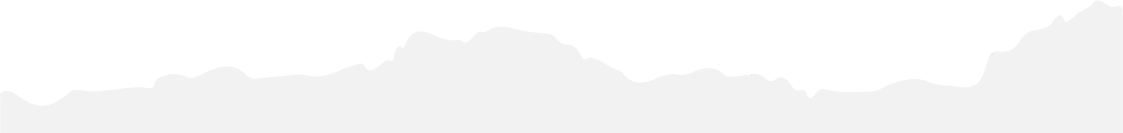
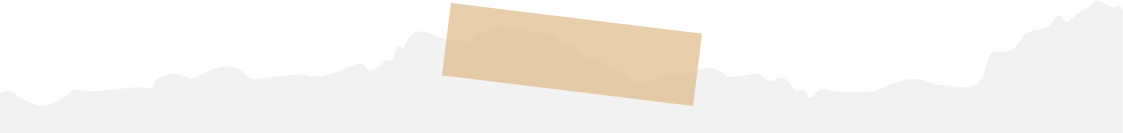
contact fini

Changed region(s): [[0.374, 0.0301, 0.6233, 0.812]]

diff --git a/public/css/contact.css b/public/css/contact.css
@@ -72,8 +72,7 @@ input[type="radio"] {
     color: burlywood;
     height: 1em;
     width: 1em;
-    border: 0.1em solid burlywood;
-    border-radius: 50%;
+    border: 0.15em solid burlywood;
 
     display: grid;
     place-content: center;
@@ -86,7 +85,6 @@ input[type="radio"]::before {
     transform: scale(0);
     background-color: burlywood;
     transition: 120ms transform ease-in-out;
-    border-radius: 50%;
 }
 
 input[type="radio"]:checked::before {
@@ -102,7 +100,7 @@ input[type="radio"]:checked::before {
 input[type="text"] {
     border: none;
     border-bottom: black solid 1px;
-    background-color: #FFFCF1;
+    background-color: #fff;
     font-family: Poppins;
     padding: 2px 5px;
 }
@@ -134,4 +132,24 @@ input[type="text"] {
 
 .submit:hover{
     cursor: pointer;
+}
+
+.topper {
+    background-image: url("../images/quizFondUp.png");
+    background-size: cover;
+    height: 5vh;
+}
+.downer {
+    background-image: url("../images/quizFondDown.png");
+    background-size: cover;
+    height: 7vh;
+}
+
+.container {
+    padding: 0 3vw;
+}
+
+.question , #envoyer {
+    padding: 1vh 3vw;
+    background-color: #f2f2f2;
 }

diff --git a/public/css/quiz.css b/public/css/quiz.css
@@ -62,17 +62,6 @@ p, label {
     align-items: flex-start;
 }
 
-#scotch {
-    height: 5vh;
-    width: 12vw;
-    background-color: rgba(222, 184, 135, 0.7);
-    position: absolute;
-    top: 27vh;
-    right: 18vw;
-    transform: rotate(35deg);
-    z-index: 1;
-}
-
 input {
     appearance: none;
     background-color: #FFFCF1;
@@ -92,7 +81,7 @@ input::before {
     width: 0.65em;
     height: 0.65em;
     transform: scale(0);
-    background-color: burlywood;
+    box-shadow: inset 1em 1em burlywood;
     transition: 120ms transform ease-in-out;
 }
 

diff --git a/public/css/trombi.css b/public/css/trombi.css
@@ -6,3 +6,15 @@
     font-family: Poppins;
     src: url("../font/Poppins-Regular.ttf");
 }
+
+main {
+    display: flex;
+    flex-direction: column;
+    align-items: center;
+}
+
+h1  {
+    margin-top: 6vh;
+    font-family: Marianaxxe;
+    font-size: 4rem;
+}

diff --git a/app/view/contact.view.php b/app/view/contact.view.php
@@ -1,8 +1,10 @@
 <section class="formulaire">
     <h2>Vous voulez qu'on intervienne pour sensibiliser sur le harcèlement de rue ? <br>
         Utilisez notre formulaire ci-dessous ! </h2>
+
     <form name="comment">
-        <div class="statut">
+        <div class="topper"></div>
+        <div class="question">
             <p>Quel est votre statut</p>
             <?php foreach ($statut as $rep) :?>
                 <label class="reponse">
@@ -22,13 +24,13 @@
                 <br>
             </label>
         </div>
-        <div class="commentaire">
+        <div class="question">
             <p>Votre demande :</p>
             <textarea
                     id="comments"
                     class="input-textarea"
                     name="comment"
-                    placeholder="Veuillez taper votre commentaire ... (250 caractères max)"
+                    placeholder="Veuillez taper votre commentaire (250 caractères max)"
                     maxlength="250"
                     wrap="hard"
                     cols="50"
@@ -36,7 +38,7 @@
             ></textarea>
         </div>
 
-        <div class="mail">
+        <div class="question">
             <p>Votre mail : </p>
             <textarea
                     id="comments"
@@ -48,12 +50,10 @@
             ></textarea>
         </div>
         <div id="envoyer">
-            <button type="submit" class="submit" form="comment">Envoyer</button>
+            <a class="submit" form="comment" href="">Envoyer</a>
         </div>
-
+        <div class="downer"></div>
     </form>
-
-
 
 </section>
 

diff --git a/database.trombi.php b/database.trombi.php
@@ -5,42 +5,49 @@ $equipe = [
       'prenom' => 'Gladys',
       'role' => 'Présidente',
       'photo' => 'public/images/PhotoGladys.jpg',
+      'link' => 'ficheGladys.php',
    ],
 
    [
       'prenom' => 'Litéya',
       'role' => 'Community Manager',
       'photo' => "public/images/PhotoLitéya.jpg",
+      'link' => 'ficheLiteya.php',
    ],
 
    [
       'prenom' => 'Sarah',
       'role' => 'Trésorière',
       'photo' => 'public/images/PhotoSarah.jpg',
+      'link' => 'ficheSarah.php',
    ],
 
    [
       'prenom' => 'Linus',
       'role' => 'Développeur',
       'photo' => 'public/images/PhotoLinus.jpeg',
+      'link' => 'ficheLinus.php',
    ],
 
    [
       'prenom' => 'Mariana',
       'role' => 'Graphiste',
       'photo' => 'public/images/PhotoMariana.jpg',
+      'link' => 'ficheMariana.php',
    ],
 
    [
       'prenom' => 'Léa',
       'role' => 'Créatrice de merch',
       'photo' => 'public/PhotosEquipeTrombi/PhotoLéa.jpg',
+      'link' => 'ficheLea.php',
    ],
 
    [
       'prenom' => 'Alexandre',
       'role' => 'Développeur',
       'photo' => 'public/images/PhotoAlexandre.jpg',
+      'link' => 'ficheAlexandre.php',
    ],
 
 ];

diff --git a/databaseboutique.php b/databaseboutique.php
@@ -4,18 +4,18 @@ $boutique = [
   [
   	'nom' => 'SWEAT "LES GONZESSES SONT DE SORTIE"',
     'description' => 'Sweat à capuche floqué avec cordons. 
-    <br>Poche kangourou</br>
-    logo "LES GONZESSES SONT DE SORTIE" sur le devant.
-    <br>Lavable en machine à 40°.</br>',
+                    <br>Poche kangourou</br>
+                    logo "LES GONZESSES SONT DE SORTIE" sur le devant.
+                    <br>Lavable en machine à 40°.</br>',
     'prix' => '30€',
     'image' => "public/images/Sweat.png",
     'taille'=> ' <select name="TailleTShirt"> 
-    <option value="xs">XS</option>
-    <option value="s">S</option>
-    <option value="M">M</option>
-    <option value="L">L</option>
-    <option value="XL">XL</option>
-</select>', 
+                    <option value="xs">XS</option>
+                    <option value="s">S</option>
+                    <option value="M">M</option>
+                    <option value="L">L</option>
+                    <option value="XL">XL</option>
+                </select>',
   ],
 
   [

diff --git a/app/view/trombi.view.php b/app/view/trombi.view.php
@@ -2,20 +2,15 @@
 
 <p>EH CONNARD !, est un collectif féministe qui lutte contre le harcèlement de rue, pour changer les regards et les mentalités, pour que les femmes regagnent l’espace public que ces conn*rds leur ont volé. Notre but : sensibiliser les jeunes sur le sujet, pour éviter qu’ils finissent par agir de la pire manière possible.</p>
 
-<h1>Les gonzesses :</h1>
+<h2>Les gonzesses :</h2>
 
 <main>
-
-   
-  
 <?php foreach ($equipe as $membre) : ?>
-
-    <div class= "membre">
-        <a href="fiche.html">
-        <img src= "<?=$membre['photo']?>" >
-        <p class="prenom"><?= $membre["prenom"] ?> </p>
-        <p class="role"><?= $membre["role"] ?> </p>
-</a>
+    <div class="membre">
+        <a href="<?=$membre['link']?>">
+            <img src= "<?=$membre['photo']?>" >
+            <p class="prenom"><?= $membre["prenom"] ?> </p>
+            <p class="role"><?= $membre["role"] ?> </p>
+        </a>
     </div>
-
 <?php endforeach ?> 

diff --git a/trombi.php b/trombi.php
@@ -1,10 +1,10 @@
 <?php
-$css=null;
+$css="public/css/trombi.css";
 include "database.trombi.php" ;
-$page_title = 'trombinoscope';
+$page_title = 'Trombinoscope';
 
 ob_start();
-include "app/view/trombisae.view.php" ;
+include "app/view/trombi.view.php";
 $content = ob_get_clean() ;
 
 include 'app/view/common/layout.php' ;

diff --git a/page_projet.php b/page_projet.php
@@ -4,7 +4,7 @@ $page_title = 'Projets';
 
 // A la place du code html, mettre le code qui permet de générer la page HTML (à partir du ob_start()).
 ob_start();
-include 'app/view/proj.view.php';
+include 'app/view/projets.view.php';
 $content = ob_get_clean();
 
 include 'app/view/common/layout.php';

diff --git a/app/view/quiz.view.php b/app/view/quiz.view.php
@@ -2,7 +2,6 @@
     <h1>Quel type de personne es-tu dans la rue ?</h1>
 
     <div id="form">
-        <div id="scotch"></div>
         <div class="topper"></div>
         <div class="form-group">
             <?php foreach ($questionnaire as $nom => $questions) :?>

diff --git a/app/view/common/header.php b/app/view/common/header.php
@@ -5,7 +5,7 @@ $header = [
     'Nous contacter' => 'contact.php',
     'Boutique' => 'boutique.php',
     'Nos projets' => 'projets.php',
-    'Qui sommes nous ?' => 'trombisae.php',
+    'Qui sommes nous ?' => 'trombi.php',
 ];
 
 ?>
